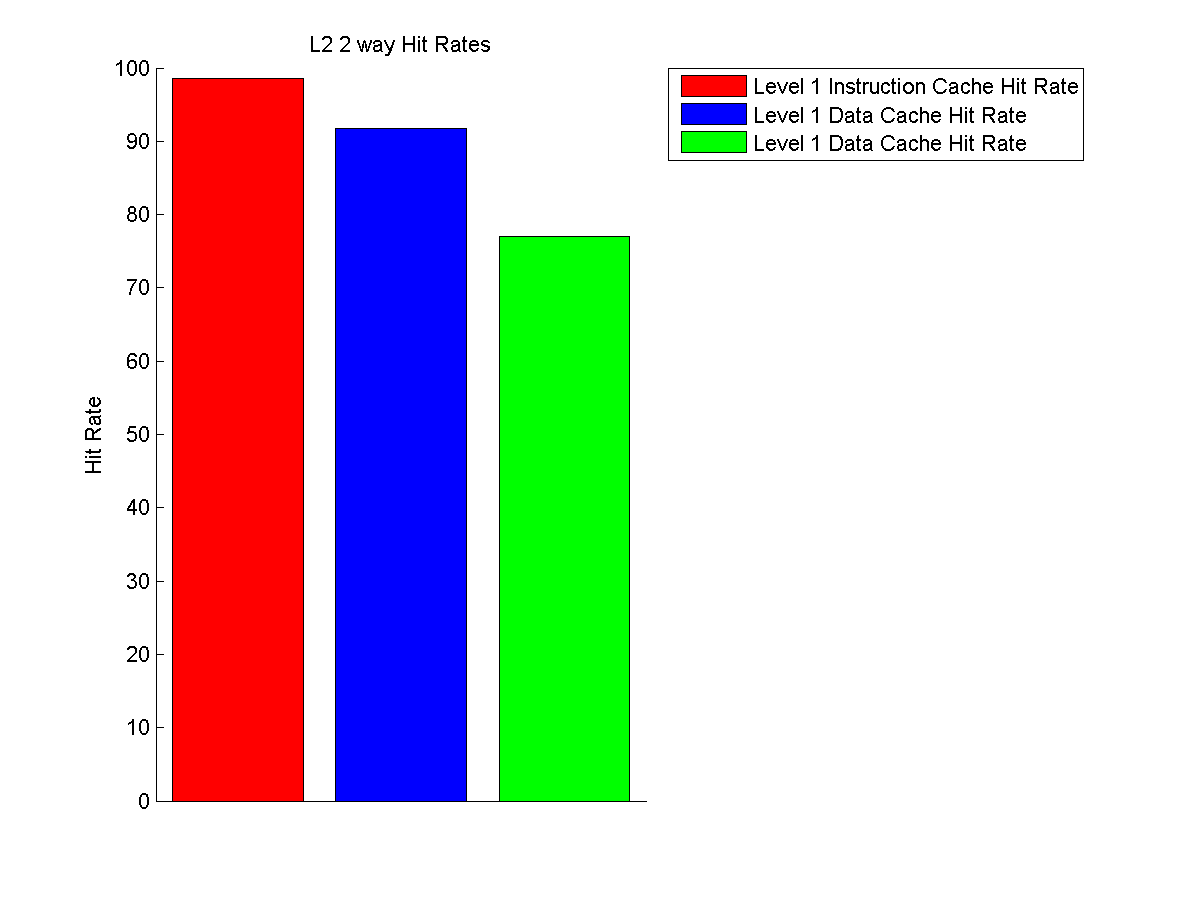
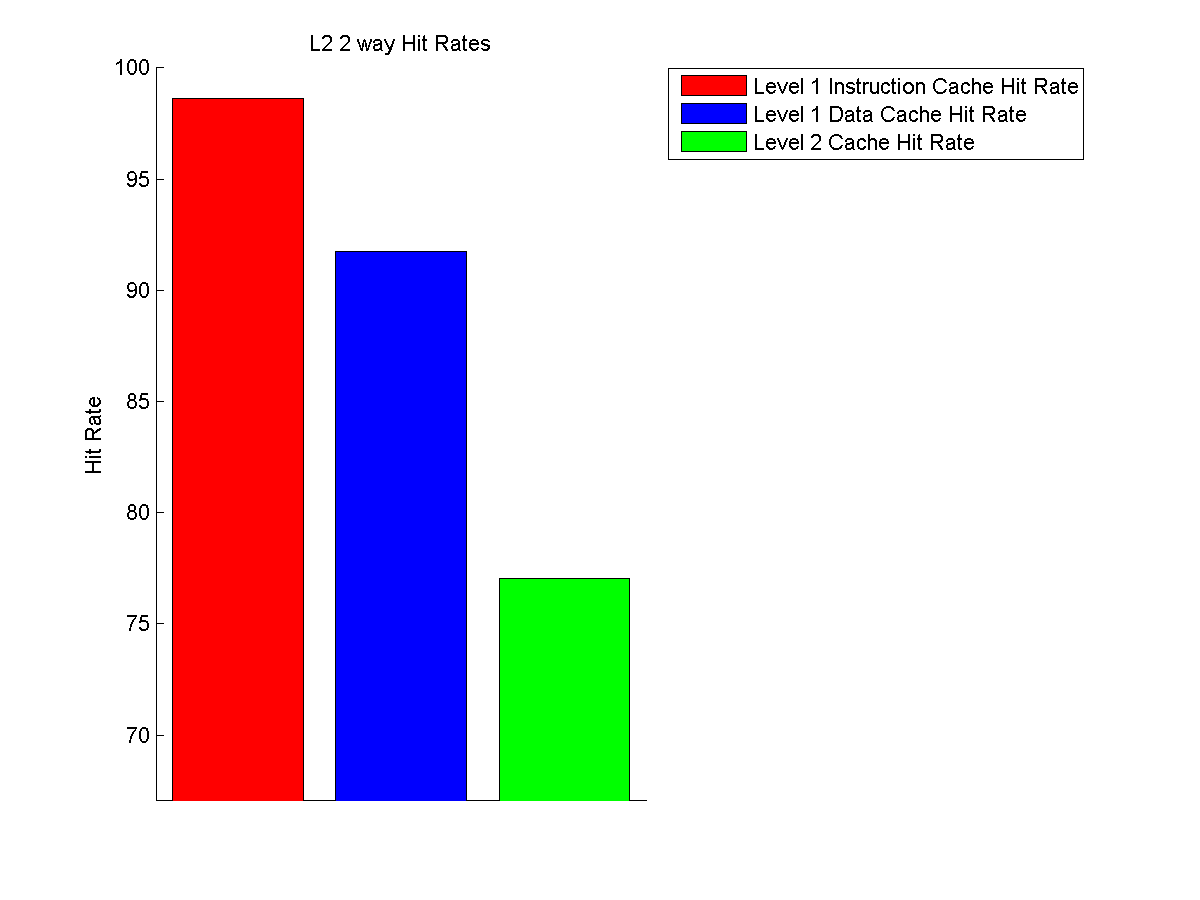
More graph updates.

diff --git a/Valhalla/results/cache_script.m b/Valhalla/results/cache_script.m
@@ -40,7 +40,7 @@ for i = 1:length(totalCPI)
     h = bar(i, totalCPI(i));
     set(h, 'FaceColor', faceColors(i));
 end
-title('CPI for All Memory Configurations');
+title('Total CPI for All Memory Configurations');
 set(gca,'XTick',[]);
 ylabel('CPI');
 legend('L1 2 way L2 4 way', 'All 2 way', 'Fully Associative', 'Direct Mapped', 'L1 2 way', 'L2 2 way', 'L2 Big', 'Location', 'NorthEastOutside');
@@ -57,10 +57,11 @@ hold on;
 bar(hitRate,'grouped');
 
 title('Hit Rate for All Memory Configurations');
-set(gca,'XTick',[]);
+set(gca,'XTick',1:7)
+set(gca,'XTickLabel',{'L1 2 way L2 4 way', 'All 2 way', 'Fully Associative', 'Direct Mapped', 'L1 2 way', 'L2 2 way', 'L2 Big'})
 ylabel('Hit Rate');
-%legend('L1 2 way L2 4 way', 'All 2 way', 'Fully Associative', 'Direct Mapped', 'L1 2 way', 'L2 2 way', 'L2 Big', 'Location', 'NorthEastOutside');
+legend('L1 InstructionCache Hit Rate', 'L1 Data Cache Hit Rate', 'L2 Cache Hit Rate', 'Location', 'NorthEastOutside');
 ylim([60 100]);
 hold off;
 
-saveas(totalHitRateGraph, 'CPI_Graph_All_Configurations', 'png');
+saveas(totalHitRateGraph, 'Hit_Rate_Graph_All_Configurations', 'png');

diff --git a/Valhalla/results/cache_graphs.m b/Valhalla/results/cache_graphs.m
@@ -61,7 +61,8 @@ set(h, 'FaceColor', 'g');
 title(strcat(cacheNameSpace,' Hit Rates'));
 set(gca,'XTick',[]);
 ylabel('Hit Rate');
-legend('Level 1 Instruction Cache Hit Rate', 'Level 1 Data Cache Hit Rate', 'Level 1 Data Cache Hit Rate', 'Location', 'NorthEastOutside');
+ylim([min(hitRate)-10,100]);
+legend('Level 1 Instruction Cache Hit Rate', 'Level 1 Data Cache Hit Rate', 'Level 2 Cache Hit Rate', 'Location', 'NorthEastOutside');
 hold off;
 
 saveas(hitRateGraph, strcat(cacheName,'_Hit_Rate_Graph'), 'png');
